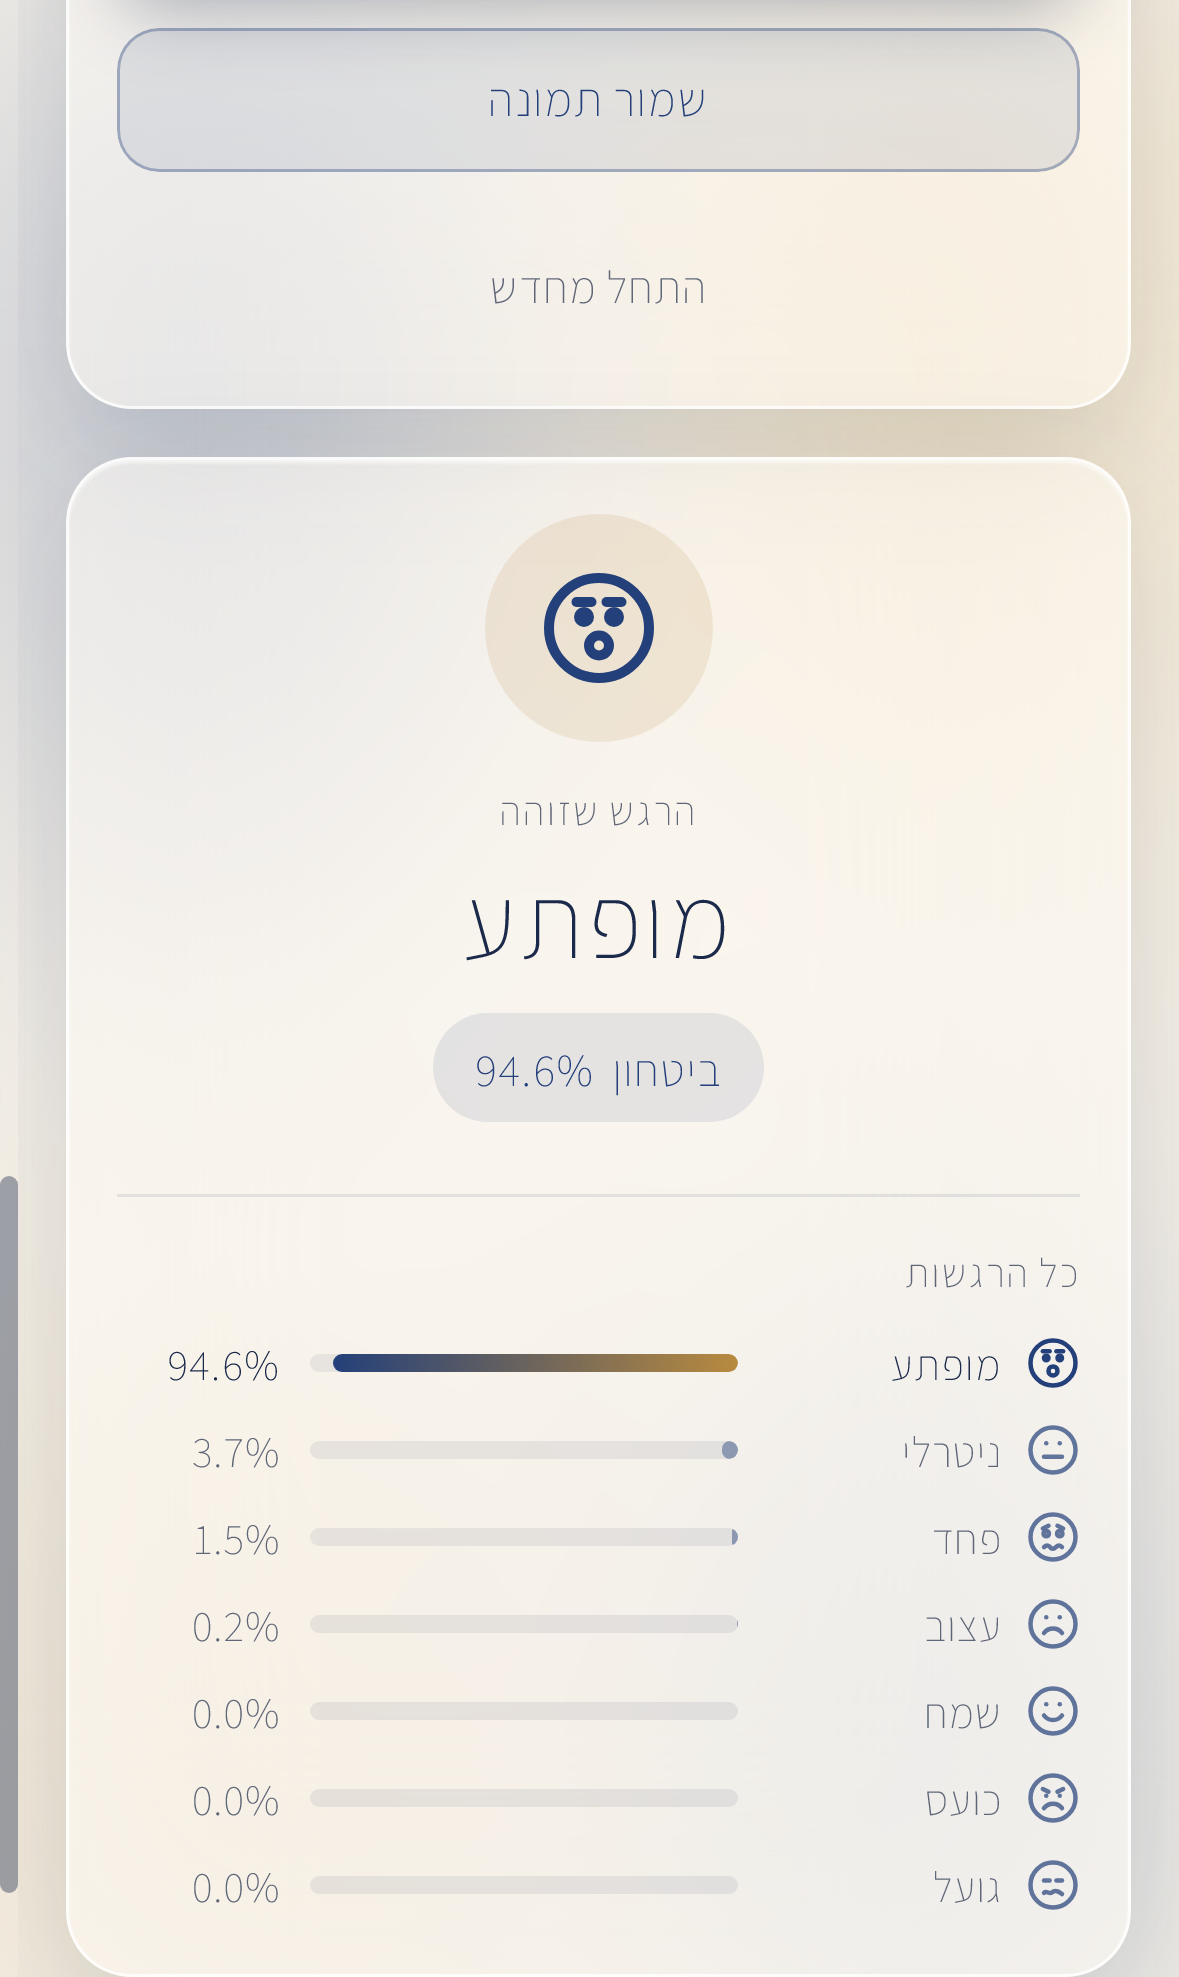
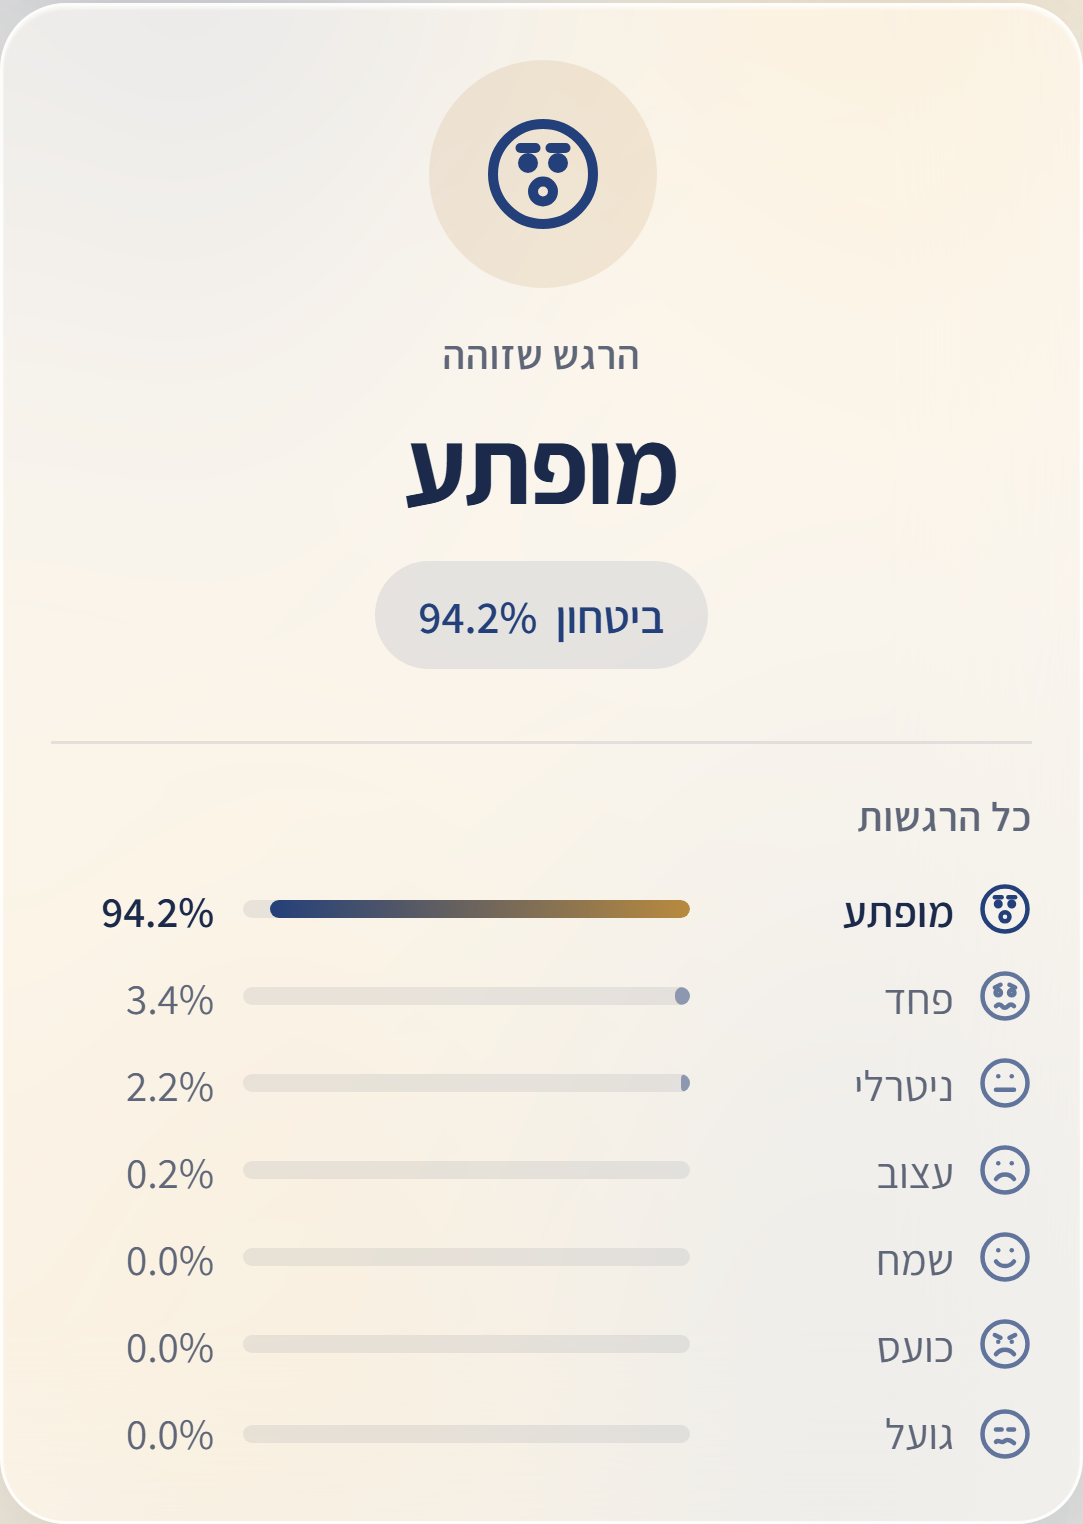
Fix README rendering and refresh screenshots
- Remove the private-network 'Try the app' link
- Hebrew summary in a right-to-left block, so it reads in the right order
- 'At a glance' table gets a real header row
- Diagrams as Mermaid flowcharts instead of misaligned text
- Repository layout lists the files that actually exist
- ngrok troubleshooting (ERR_NGROK_3200, ERR_NGROK_121)
- New result-card screenshots with the current layout and prior correction

diff --git a/README.md b/README.md
@@ -1,15 +1,14 @@
 # Project Vision — Facial Emotion Recognition
 
-> **Try the app:** [Open Project Vision](http://192.168.1.95:8502)
-> The link uses a private network address and is available only when the app is running on the host computer and your device can reach it on the same network.
-
 An end-to-end computer vision project that classifies facial expressions with a convolutional neural network (CNN). The model is trained in Google Colab on FER+, and a bilingual web app lets users take or upload a photo to receive a prediction.
 
-**Hebrew:** מערכת לזיהוי הבעות פנים באמצעות רשת נוירונים קונבולוציונית (CNN). המודל אומן על FER+, ואפליקציית רשת בעברית ובאנגלית מאפשרת לצלם או להעלות תמונה ולקבל חיזוי.
+<p dir="rtl" lang="he">
+<b>בעברית:</b> מערכת לזיהוי הבעות פנים באמצעות רשת נוירונים קונבולוציונית (<bdi>CNN</bdi>). המודל אומן על <bdi>FER+</bdi>, ואפליקציית רשת בעברית ובאנגלית מאפשרת לצלם או להעלות תמונה ולקבל חיזוי.
+</p>
 
 ## At a glance
 
-| | |
+| Item | Details |
 |---|---|
 | **Task** | Facial-expression classification |
 | **Emotions** | Angry, disgust, fear, happy, neutral, sad, surprise |
@@ -32,18 +31,22 @@ An end-to-end computer vision project that classifies facial expressions with a 
 
 The app detects a face, converts it to grayscale, resizes it to 48 × 48 pixels, scales pixel values to the range 0–1, and passes it to the CNN. The app applies a prior correction to the model probabilities, then displays the predicted emotion, confidence, and probabilities for all seven classes. Predictions below 60% confidence are marked as **Unknown**.
 
-```text
-Photo → Face detection → Preprocessing → CNN → Prior correction → Prediction
-       OpenCV Haar       grayscale,      7 classes   rebalance      emotion,
-       cascade          48 × 48, /255                probabilities confidence
+```mermaid
+flowchart LR
+    A["Photo"] --> B["Face detection<br/>OpenCV Haar cascade"]
+    B --> C["Preprocessing<br/>grayscale, 48 × 48, ÷255"]
+    C --> D["CNN<br/>7 classes"]
+    D --> E["Prior correction<br/>rebalance probabilities"]
+    E --> F["Prediction<br/>emotion + confidence"]
 ```
 
 The application separates the interface from inference: Streamlit sends the image to FastAPI over HTTP, and the API loads the model once at startup.
 
-```text
-Streamlit (app.py) ──HTTP──▶ FastAPI (api.py) ──▶ vision_core.py ──▶ CNN model
-    interface                 validation and       preprocessing     inference
-                              request handling      and prediction
+```mermaid
+flowchart LR
+    A["Streamlit · app.py<br/>interface"] -- HTTP --> B["FastAPI · api.py<br/>validation, requests"]
+    B --> C["vision_core.py<br/>preprocessing, prediction"]
+    C --> D["CNN model<br/>training_model_v2.keras"]
 ```
 
 ## Model and evaluation
@@ -56,7 +59,7 @@ The project compares three versions using the same CNN architecture:
 | **v2** | **FER+ (7 classes)** | **74.5%** | **Selected for the app** |
 | v3 | FER+ with balanced class weights | 54% | Experiment; not selected |
 
-FER+ improved the v2 result over v1. A separate experiment applies prior correction to v2's output to reduce the effect of class imbalance. On the test set, this changed accuracy from **74.5% to 73.8%** and macro recall from **52.4% to 60.2%**. The correction improves the balance of predictions for less common emotions; it does not retrain the model.
+FER+ improved the v2 result over v1. The app then applies a prior correction to v2's output to reduce the effect of class imbalance (`balance_prediction` in the notebook and in `vision_core.py`). On the test set, this changed accuracy from **74.5% to 73.8%** and macro recall from **52.4% to 60.2%**. The correction improves the balance of predictions for less common emotions; it does not retrain the model.
 
 ## Run locally
 
@@ -108,26 +111,28 @@ The camera is generally available to a mobile browser only on `localhost` or ove
 
 Only the Streamlit port is exposed by this setup; the API remains local. Keep the token private, and note the app is available only while the computer and required services are running.
 
+**If the link doesn't open:**
+
+| Error | Meaning | Fix |
+|---|---|---|
+| `ERR_NGROK_3200` | The endpoint is offline: no ngrok process is running | Start `ngrok http <port>` again (closing its terminal stops it) |
+| `ERR_NGROK_121` | The ngrok agent is too old (free accounts need 3.20.0 or newer) | Run `ngrok update`, or download it again from [ngrok.com/download](https://ngrok.com/download) |
+
 ## Repository layout
 
-```text
-.
-├── docs/                         Project notes, audit, and summary
-├── model_versions/               Earlier model versions
-├── notebook/                     Notebook workspace
-├── screenshots/                  App screenshots
-├── test_images/                  Sample images for testing
-├── vision_app/
-│   ├── api.py                     FastAPI endpoints
-│   ├── app.py                     Streamlit interface
-│   ├── config.py                  Model configuration
-│   ├── i18n.py                    Hebrew and English UI text
-│   ├── styles.py                  Interface styling
-│   ├── vision_core.py             Model loading and inference
-│   ├── models/                    Model used by the app
-│   └── requirements.txt           Python dependencies
-└── split_dataset.py               Dataset preparation utility
-```
+| Path | What it is |
+|---|---|
+| `PROJECT_CNN.ipynb` | The Colab notebook: data, training, evaluation, and the inference functions |
+| `JOURNAL.md` | The project journal: experiments, results, and what was learned |
+| `screenshots/` | App screenshots (see [screenshots/README.md](screenshots/README.md)) |
+| `vision_app/api.py` | FastAPI endpoints (`/health`, `/predict`) |
+| `vision_app/app.py` | Streamlit interface |
+| `vision_app/vision_core.py` | Model loading and the inference functions from the notebook |
+| `vision_app/config.py` | Which model file the app loads |
+| `vision_app/i18n.py` | Hebrew and English UI text |
+| `vision_app/styles.py` | Interface styling |
+| `vision_app/models/` | The model used by the app (`training_model_v2.keras`) |
+| `vision_app/requirements.txt` | Python dependencies |
 
 See [vision_app/README.md](vision_app/README.md) for the API reference and app-specific configuration details.
 

diff --git a/screenshots/README.md b/screenshots/README.md
@@ -1,13 +1,12 @@
 # Screenshots
 
-The app opened over the internet through ngrok (bonus), on 2026-10-26.
-
 | File | What it shows |
 |---|---|
-| `1_ngrok_connection.png` | Opening the public link `https://spoof-nylon-unclip.ngrok-free.dev`: ngrok's notice page before the app |
-| `2_app_over_ngrok.png` | The app loaded over that HTTPS link |
-| `3_prediction_he.png` | A prediction (`vision-photo.jpg`): surprise 94.6%, with every emotion's probability, in Hebrew |
-| `5_prediction_en.png` | The same prediction in English |
+| `1_ngrok_connection.png` | Opening the public ngrok link (`https://spoof-nylon-unclip.ngrok-free.dev`): ngrok's notice page before the app (2026-10-26) |
+| `2_app_over_ngrok.png` | The app loaded over that HTTPS link (2026-10-26) |
+| `3_prediction_he.png` | The result card for `vision-photo.jpg` in Hebrew: surprise 94.2% (after the prior correction), with every emotion's probability |
+| `5_prediction_en.png` | The same result in English |
 
-**How they were taken:** in a browser emulating an iPhone 15 Pro (screen size, touch, iPhone user agent),
-connected to the real public ngrok link. They are not photos of a physical phone screen.
+**How they were taken:** `1` and `2` in a browser emulating an iPhone 15 Pro, over the real public ngrok link.
+`3` and `5` at phone size (393 × 852) against the app running locally, cropped to the result card,
+with the current layout (2026-10-28). None of them are photos of a physical phone screen.
